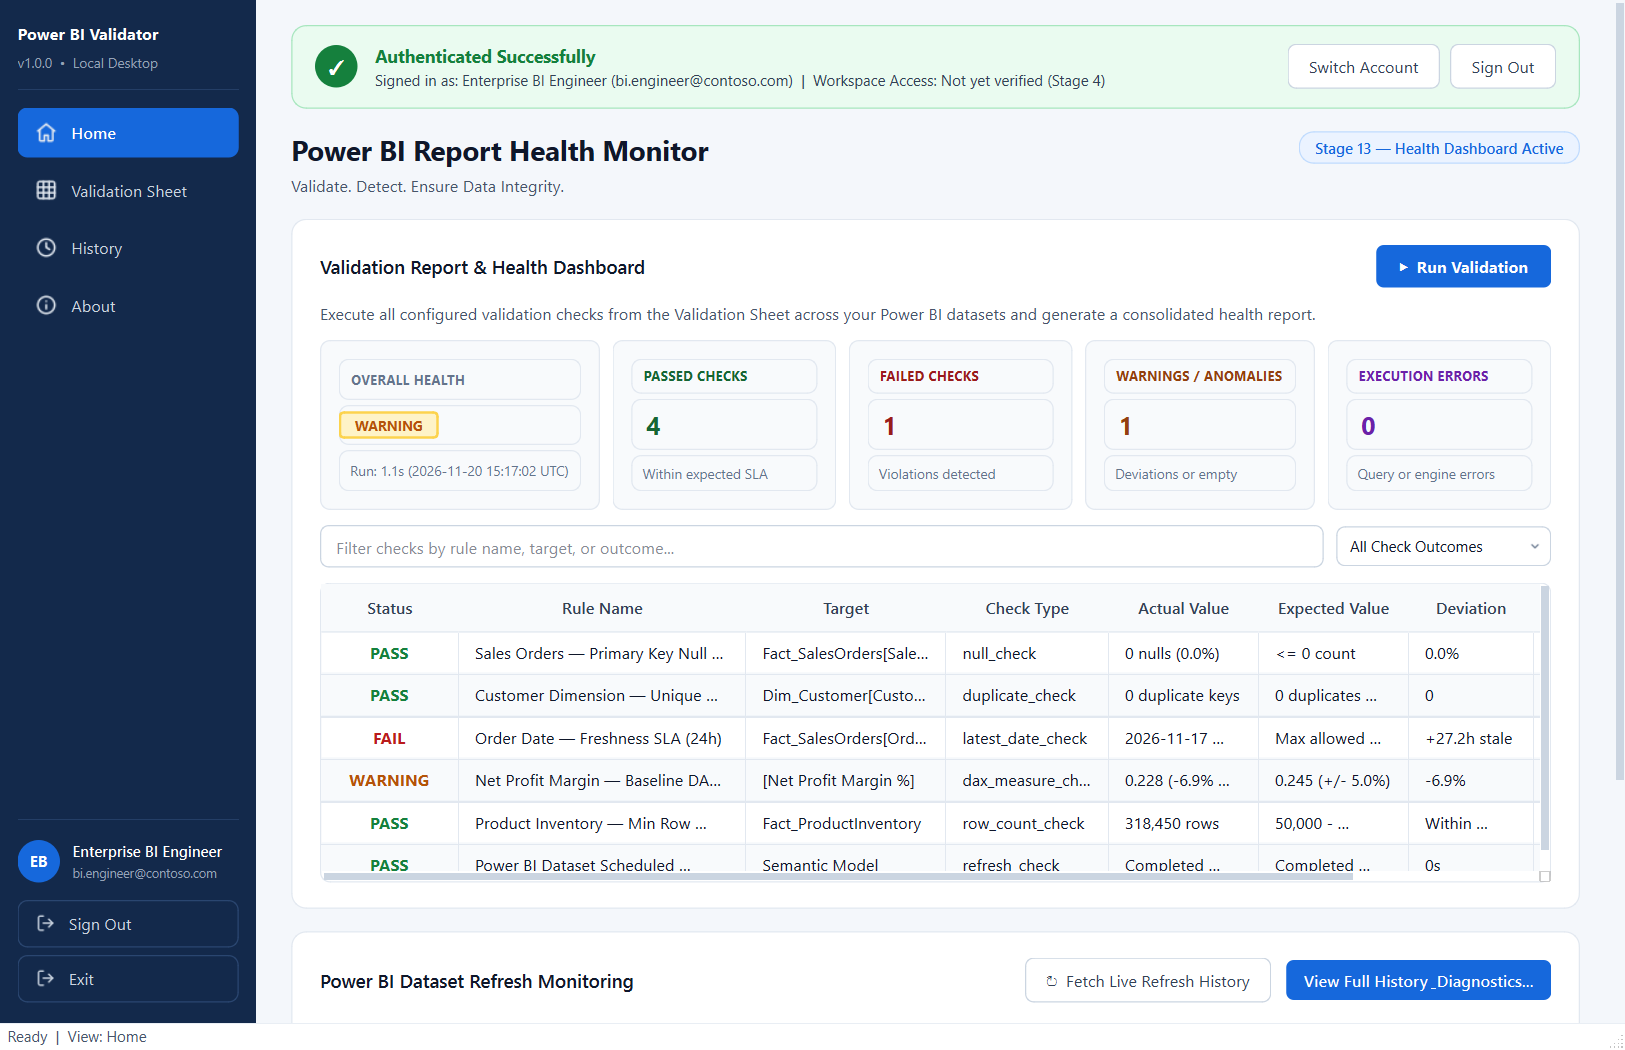
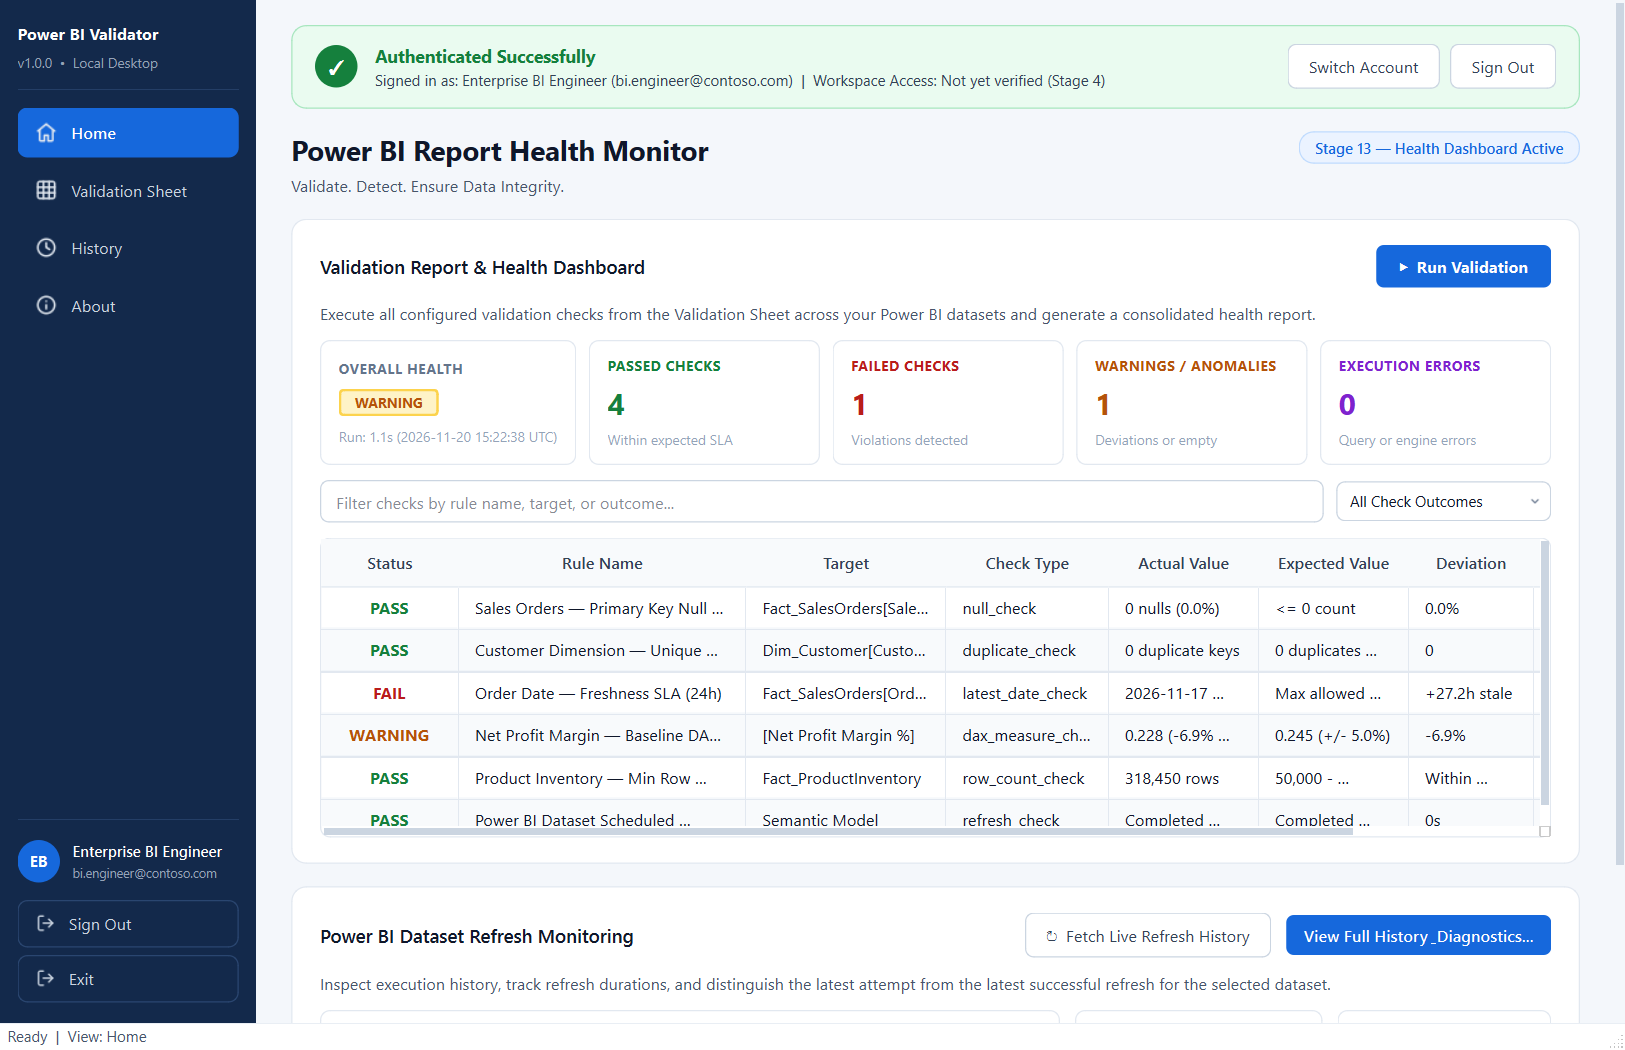
fix(ui): eliminate nested tubelight borders on KPI cards and standardize clean typography

diff --git a/app/ui/pages/home_page.py b/app/ui/pages/home_page.py
@@ -433,13 +433,14 @@ class HomePage(QWidget):
         card_attempt = QFrame()
         card_attempt.setObjectName("Card")
         card_attempt.setStyleSheet(
-            "background-color: #F8FAFC; border: 1px solid #E2E8F0; border-radius: 8px; padding: 8px;"
+            "QFrame#Card { background-color: #FFFFFF; border: 1px solid #E2E8F0; border-radius: 8px; } "
+            "QLabel { border: none; background: transparent; }"
         )
         lay_att = QVBoxLayout(card_attempt)
-        lay_att.setContentsMargins(10, 8, 10, 8)
-        lay_att.setSpacing(4)
+        lay_att.setContentsMargins(14, 12, 14, 12)
+        lay_att.setSpacing(6)
         lbl_att_title = QLabel("LATEST REFRESH ATTEMPT")
-        lbl_att_title.setStyleSheet("color: #64748B; font-size: 10px; font-weight: 700; letter-spacing: 0.5px;")
+        lbl_att_title.setStyleSheet("color: #64748B; font-size: 11px; font-weight: 700; letter-spacing: 0.5px;")
         lay_att.addWidget(lbl_att_title)
 
         self.home_attempt_pill_container = QWidget()
@@ -451,7 +452,7 @@ class HomePage(QWidget):
         lay_att.addWidget(self.home_attempt_pill_container)
 
         self.home_attempt_start = QLabel("Start: —")
-        self.home_attempt_start.setStyleSheet("color: #475569; font-size: 11px;")
+        self.home_attempt_start.setStyleSheet("color: #64748B; font-size: 11px;")
         lay_att.addWidget(self.home_attempt_start)
         self.home_attempt_duration = QLabel("Duration: —")
         self.home_attempt_duration.setStyleSheet("color: #0F172A; font-size: 12px; font-weight: 600;")
@@ -462,20 +463,21 @@ class HomePage(QWidget):
         card_success = QFrame()
         card_success.setObjectName("Card")
         card_success.setStyleSheet(
-            "background-color: #F8FAFC; border: 1px solid #E2E8F0; border-radius: 8px; padding: 8px;"
+            "QFrame#Card { background-color: #FFFFFF; border: 1px solid #E2E8F0; border-radius: 8px; } "
+            "QLabel { border: none; background: transparent; }"
         )
         lay_suc = QVBoxLayout(card_success)
-        lay_suc.setContentsMargins(10, 8, 10, 8)
-        lay_suc.setSpacing(4)
+        lay_suc.setContentsMargins(14, 12, 14, 12)
+        lay_suc.setSpacing(6)
         lbl_suc_title = QLabel("LATEST SUCCESSFUL REFRESH")
-        lbl_suc_title.setStyleSheet("color: #64748B; font-size: 10px; font-weight: 700; letter-spacing: 0.5px;")
+        lbl_suc_title.setStyleSheet("color: #64748B; font-size: 11px; font-weight: 700; letter-spacing: 0.5px;")
         lay_suc.addWidget(lbl_suc_title)
 
         self.home_success_time = QLabel("—")
-        self.home_success_time.setStyleSheet("color: #065F46; font-size: 13px; font-weight: 700;")
+        self.home_success_time.setStyleSheet("color: #059669; font-size: 14px; font-weight: 700;")
         lay_suc.addWidget(self.home_success_time)
         self.home_success_age = QLabel("Age: —")
-        self.home_success_age.setStyleSheet("color: #475569; font-size: 11px;")
+        self.home_success_age.setStyleSheet("color: #64748B; font-size: 11px;")
         lay_suc.addWidget(self.home_success_age)
         self.home_success_duration = QLabel("Duration: —")
         self.home_success_duration.setStyleSheet("color: #0F172A; font-size: 12px; font-weight: 600;")
@@ -486,20 +488,21 @@ class HomePage(QWidget):
         card_rel = QFrame()
         card_rel.setObjectName("Card")
         card_rel.setStyleSheet(
-            "background-color: #F8FAFC; border: 1px solid #E2E8F0; border-radius: 8px; padding: 8px;"
+            "QFrame#Card { background-color: #FFFFFF; border: 1px solid #E2E8F0; border-radius: 8px; } "
+            "QLabel { border: none; background: transparent; }"
         )
         lay_rel = QVBoxLayout(card_rel)
-        lay_rel.setContentsMargins(10, 8, 10, 8)
-        lay_rel.setSpacing(4)
+        lay_rel.setContentsMargins(14, 12, 14, 12)
+        lay_rel.setSpacing(6)
         lbl_rel_title = QLabel("HISTORICAL RELIABILITY")
-        lbl_rel_title.setStyleSheet("color: #64748B; font-size: 10px; font-weight: 700; letter-spacing: 0.5px;")
+        lbl_rel_title.setStyleSheet("color: #64748B; font-size: 11px; font-weight: 700; letter-spacing: 0.5px;")
         lay_rel.addWidget(lbl_rel_title)
 
         self.home_reliability_rate = QLabel("No Data")
-        self.home_reliability_rate.setStyleSheet("color: #1668DC; font-size: 14px; font-weight: 700;")
+        self.home_reliability_rate.setStyleSheet("color: #1668DC; font-size: 15px; font-weight: 700;")
         lay_rel.addWidget(self.home_reliability_rate)
         self.home_reliability_detail = QLabel("Recorded Runs: 0")
-        self.home_reliability_detail.setStyleSheet("color: #475569; font-size: 11px;")
+        self.home_reliability_detail.setStyleSheet("color: #64748B; font-size: 11px;")
         lay_rel.addWidget(self.home_reliability_detail)
         kpi_row.addWidget(card_rel)
 
@@ -780,12 +783,16 @@ class HomePage(QWidget):
 
         # 1. Overall Status
         card_ov = QFrame()
-        card_ov.setStyleSheet("background-color: #F8FAFC; border: 1px solid #E2E8F0; border-radius: 8px; padding: 6px;")
+        card_ov.setObjectName("Card")
+        card_ov.setStyleSheet(
+            "QFrame#Card { background-color: #FFFFFF; border: 1px solid #E2E8F0; border-radius: 8px; } "
+            "QLabel { border: none; background: transparent; }"
+        )
         lay_ov = QVBoxLayout(card_ov)
-        lay_ov.setContentsMargins(8, 8, 8, 8)
-        lay_ov.setSpacing(4)
+        lay_ov.setContentsMargins(14, 12, 14, 12)
+        lay_ov.setSpacing(6)
         lbl_ov_t = QLabel("OVERALL HEALTH")
-        lbl_ov_t.setStyleSheet("color: #64748B; font-size: 10px; font-weight: 700; letter-spacing: 0.5px;")
+        lbl_ov_t.setStyleSheet("color: #64748B; font-size: 11px; font-weight: 700; letter-spacing: 0.5px;")
         lay_ov.addWidget(lbl_ov_t)
 
         self.home_overall_pill_container = QWidget()
@@ -797,75 +804,91 @@ class HomePage(QWidget):
         lay_ov.addWidget(self.home_overall_pill_container)
 
         self.home_overall_timing = QLabel("Last Run: —")
-        self.home_overall_timing.setStyleSheet("color: #64748B; font-size: 11px;")
+        self.home_overall_timing.setStyleSheet("color: #94A3B8; font-size: 11px;")
         lay_ov.addWidget(self.home_overall_timing)
         kpi_row.addWidget(card_ov, stretch=1)
 
         # 2. Passed
         card_pass = QFrame()
-        card_pass.setStyleSheet("background-color: #F8FAFC; border: 1px solid #E2E8F0; border-radius: 8px; padding: 6px;")
+        card_pass.setObjectName("Card")
+        card_pass.setStyleSheet(
+            "QFrame#Card { background-color: #FFFFFF; border: 1px solid #E2E8F0; border-radius: 8px; } "
+            "QLabel { border: none; background: transparent; }"
+        )
         lay_p = QVBoxLayout(card_pass)
-        lay_p.setContentsMargins(8, 8, 8, 8)
-        lay_p.setSpacing(4)
+        lay_p.setContentsMargins(14, 12, 14, 12)
+        lay_p.setSpacing(6)
         lbl_p_t = QLabel("PASSED CHECKS")
-        lbl_p_t.setStyleSheet("color: #166534; font-size: 10px; font-weight: 700; letter-spacing: 0.5px;")
+        lbl_p_t.setStyleSheet("color: #15803D; font-size: 11px; font-weight: 700; letter-spacing: 0.5px;")
         lay_p.addWidget(lbl_p_t)
         self.home_passed_count = QLabel("0")
-        self.home_passed_count.setStyleSheet("color: #166534; font-size: 20px; font-weight: 700;")
+        self.home_passed_count.setStyleSheet("color: #15803D; font-size: 24px; font-weight: 700;")
         lay_p.addWidget(self.home_passed_count)
         lbl_p_sub = QLabel("Within expected SLA")
-        lbl_p_sub.setStyleSheet("color: #64748B; font-size: 11px;")
+        lbl_p_sub.setStyleSheet("color: #94A3B8; font-size: 11px;")
         lay_p.addWidget(lbl_p_sub)
         kpi_row.addWidget(card_pass, stretch=1)
 
         # 3. Failed
         card_fail = QFrame()
-        card_fail.setStyleSheet("background-color: #F8FAFC; border: 1px solid #E2E8F0; border-radius: 8px; padding: 6px;")
+        card_fail.setObjectName("Card")
+        card_fail.setStyleSheet(
+            "QFrame#Card { background-color: #FFFFFF; border: 1px solid #E2E8F0; border-radius: 8px; } "
+            "QLabel { border: none; background: transparent; }"
+        )
         lay_f = QVBoxLayout(card_fail)
-        lay_f.setContentsMargins(8, 8, 8, 8)
-        lay_f.setSpacing(4)
+        lay_f.setContentsMargins(14, 12, 14, 12)
+        lay_f.setSpacing(6)
         lbl_f_t = QLabel("FAILED CHECKS")
-        lbl_f_t.setStyleSheet("color: #991B1B; font-size: 10px; font-weight: 700; letter-spacing: 0.5px;")
+        lbl_f_t.setStyleSheet("color: #B91C1C; font-size: 11px; font-weight: 700; letter-spacing: 0.5px;")
         lay_f.addWidget(lbl_f_t)
         self.home_failed_count = QLabel("0")
-        self.home_failed_count.setStyleSheet("color: #991B1B; font-size: 20px; font-weight: 700;")
+        self.home_failed_count.setStyleSheet("color: #B91C1C; font-size: 24px; font-weight: 700;")
         lay_f.addWidget(self.home_failed_count)
         lbl_f_sub = QLabel("Violations detected")
-        lbl_f_sub.setStyleSheet("color: #64748B; font-size: 11px;")
+        lbl_f_sub.setStyleSheet("color: #94A3B8; font-size: 11px;")
         lay_f.addWidget(lbl_f_sub)
         kpi_row.addWidget(card_fail, stretch=1)
 
         # 4. Warnings
         card_warn = QFrame()
-        card_warn.setStyleSheet("background-color: #F8FAFC; border: 1px solid #E2E8F0; border-radius: 8px; padding: 6px;")
+        card_warn.setObjectName("Card")
+        card_warn.setStyleSheet(
+            "QFrame#Card { background-color: #FFFFFF; border: 1px solid #E2E8F0; border-radius: 8px; } "
+            "QLabel { border: none; background: transparent; }"
+        )
         lay_w = QVBoxLayout(card_warn)
-        lay_w.setContentsMargins(8, 8, 8, 8)
-        lay_w.setSpacing(4)
+        lay_w.setContentsMargins(14, 12, 14, 12)
+        lay_w.setSpacing(6)
         lbl_w_t = QLabel("WARNINGS / ANOMALIES")
-        lbl_w_t.setStyleSheet("color: #92400E; font-size: 10px; font-weight: 700; letter-spacing: 0.5px;")
+        lbl_w_t.setStyleSheet("color: #B45309; font-size: 11px; font-weight: 700; letter-spacing: 0.5px;")
         lay_w.addWidget(lbl_w_t)
         self.home_warning_count = QLabel("0")
-        self.home_warning_count.setStyleSheet("color: #92400E; font-size: 20px; font-weight: 700;")
+        self.home_warning_count.setStyleSheet("color: #B45309; font-size: 24px; font-weight: 700;")
         lay_w.addWidget(self.home_warning_count)
         lbl_w_sub = QLabel("Deviations or empty")
-        lbl_w_sub.setStyleSheet("color: #64748B; font-size: 11px;")
+        lbl_w_sub.setStyleSheet("color: #94A3B8; font-size: 11px;")
         lay_w.addWidget(lbl_w_sub)
         kpi_row.addWidget(card_warn, stretch=1)
 
         # 5. Errors
         card_err = QFrame()
-        card_err.setStyleSheet("background-color: #F8FAFC; border: 1px solid #E2E8F0; border-radius: 8px; padding: 6px;")
+        card_err.setObjectName("Card")
+        card_err.setStyleSheet(
+            "QFrame#Card { background-color: #FFFFFF; border: 1px solid #E2E8F0; border-radius: 8px; } "
+            "QLabel { border: none; background: transparent; }"
+        )
         lay_e = QVBoxLayout(card_err)
-        lay_e.setContentsMargins(8, 8, 8, 8)
-        lay_e.setSpacing(4)
+        lay_e.setContentsMargins(14, 12, 14, 12)
+        lay_e.setSpacing(6)
         lbl_e_t = QLabel("EXECUTION ERRORS")
-        lbl_e_t.setStyleSheet("color: #6B21A8; font-size: 10px; font-weight: 700; letter-spacing: 0.5px;")
+        lbl_e_t.setStyleSheet("color: #7E22CE; font-size: 11px; font-weight: 700; letter-spacing: 0.5px;")
         lay_e.addWidget(lbl_e_t)
         self.home_error_count = QLabel("0")
-        self.home_error_count.setStyleSheet("color: #6B21A8; font-size: 20px; font-weight: 700;")
+        self.home_error_count.setStyleSheet("color: #7E22CE; font-size: 24px; font-weight: 700;")
         lay_e.addWidget(self.home_error_count)
         lbl_e_sub = QLabel("Query or engine errors")
-        lbl_e_sub.setStyleSheet("color: #64748B; font-size: 11px;")
+        lbl_e_sub.setStyleSheet("color: #94A3B8; font-size: 11px;")
         lay_e.addWidget(lbl_e_sub)
         kpi_row.addWidget(card_err, stretch=1)
 

diff --git a/app/ui/dialogs/run_comparison_dialog.py b/app/ui/dialogs/run_comparison_dialog.py
@@ -231,76 +231,96 @@ class RunComparisonDialog(QDialog):
 
         # Regressions Card
         self.c_reg = QFrame()
+        self.c_reg.setObjectName("CardReg")
         self.c_reg.setCursor(Qt.CursorShape.PointingHandCursor)
-        self.c_reg.setStyleSheet("background-color: #FEF2F2; border: 1.5px solid #FCA5A5; border-radius: 8px; padding: 6px;")
+        self.c_reg.setStyleSheet(
+            "QFrame#CardReg { background-color: #FEF2F2; border: 1px solid #FECACA; border-radius: 8px; } "
+            "QFrame#CardReg:hover { background-color: #FEE2E2; border-color: #F87171; } "
+            "QLabel { border: none; background: transparent; }"
+        )
         lay_reg = QVBoxLayout(self.c_reg)
-        lay_reg.setContentsMargins(10, 8, 10, 8)
-        lay_reg.setSpacing(2)
+        lay_reg.setContentsMargins(14, 12, 14, 12)
+        lay_reg.setSpacing(4)
         lbl_r_t = QLabel("REGRESSIONS")
-        lbl_r_t.setStyleSheet("font-size: 11px; font-weight: 700; color: #B91C1C;")
+        lbl_r_t.setStyleSheet("font-size: 11px; font-weight: 700; color: #B91C1C; letter-spacing: 0.5px;")
         lay_reg.addWidget(lbl_r_t)
         self.lbl_r_c = QLabel(str(self._cmp.regressions_count))
-        self.lbl_r_c.setStyleSheet("font-size: 20px; font-weight: 700; color: #B91C1C;")
+        self.lbl_r_c.setStyleSheet("font-size: 24px; font-weight: 700; color: #B91C1C;")
         lay_reg.addWidget(self.lbl_r_c)
         lbl_r_sub = QLabel("Worsened checks (Click to filter)")
-        lbl_r_sub.setStyleSheet("font-size: 10px; color: #991B1B;")
+        lbl_r_sub.setStyleSheet("font-size: 11px; color: #991B1B;")
         lay_reg.addWidget(lbl_r_sub)
         self.c_reg.mousePressEvent = lambda _e: self._filter_by_card("REGRESSION")
         kpi_row.addWidget(self.c_reg, stretch=1)
 
         # Improvements Card
         self.c_imp = QFrame()
+        self.c_imp.setObjectName("CardImp")
         self.c_imp.setCursor(Qt.CursorShape.PointingHandCursor)
-        self.c_imp.setStyleSheet("background-color: #F0FDF4; border: 1.5px solid #86EFAC; border-radius: 8px; padding: 6px;")
+        self.c_imp.setStyleSheet(
+            "QFrame#CardImp { background-color: #F0FDF4; border: 1px solid #BBF7D0; border-radius: 8px; } "
+            "QFrame#CardImp:hover { background-color: #DCFCE7; border-color: #4ADE80; } "
+            "QLabel { border: none; background: transparent; }"
+        )
         lay_imp = QVBoxLayout(self.c_imp)
-        lay_imp.setContentsMargins(10, 8, 10, 8)
-        lay_imp.setSpacing(2)
+        lay_imp.setContentsMargins(14, 12, 14, 12)
+        lay_imp.setSpacing(4)
         lbl_i_t = QLabel("IMPROVEMENTS")
-        lbl_i_t.setStyleSheet("font-size: 11px; font-weight: 700; color: #15803D;")
+        lbl_i_t.setStyleSheet("font-size: 11px; font-weight: 700; color: #15803D; letter-spacing: 0.5px;")
         lay_imp.addWidget(lbl_i_t)
         self.lbl_i_c = QLabel(str(self._cmp.improvements_count))
-        self.lbl_i_c.setStyleSheet("font-size: 20px; font-weight: 700; color: #15803D;")
+        self.lbl_i_c.setStyleSheet("font-size: 24px; font-weight: 700; color: #15803D;")
         lay_imp.addWidget(self.lbl_i_c)
         lbl_i_sub = QLabel("Resolved checks (Click to filter)")
-        lbl_i_sub.setStyleSheet("font-size: 10px; color: #166534;")
+        lbl_i_sub.setStyleSheet("font-size: 11px; color: #166534;")
         lay_imp.addWidget(lbl_i_sub)
         self.c_imp.mousePressEvent = lambda _e: self._filter_by_card("IMPROVEMENT")
         kpi_row.addWidget(self.c_imp, stretch=1)
 
         # Unchanged Card
         self.c_unc = QFrame()
+        self.c_unc.setObjectName("CardUnc")
         self.c_unc.setCursor(Qt.CursorShape.PointingHandCursor)
-        self.c_unc.setStyleSheet("background-color: #F8FAFC; border: 1px solid #CBD5E1; border-radius: 8px; padding: 6px;")
+        self.c_unc.setStyleSheet(
+            "QFrame#CardUnc { background-color: #FFFFFF; border: 1px solid #E2E8F0; border-radius: 8px; } "
+            "QFrame#CardUnc:hover { background-color: #F8FAFC; border-color: #CBD5E1; } "
+            "QLabel { border: none; background: transparent; }"
+        )
         lay_unc = QVBoxLayout(self.c_unc)
-        lay_unc.setContentsMargins(10, 8, 10, 8)
-        lay_unc.setSpacing(2)
+        lay_unc.setContentsMargins(14, 12, 14, 12)
+        lay_unc.setSpacing(4)
         lbl_u_t = QLabel("UNCHANGED")
-        lbl_u_t.setStyleSheet("font-size: 11px; font-weight: 700; color: #475569;")
+        lbl_u_t.setStyleSheet("font-size: 11px; font-weight: 700; color: #475569; letter-spacing: 0.5px;")
         lay_unc.addWidget(lbl_u_t)
         self.lbl_u_c = QLabel(str(self._cmp.unchanged_count))
-        self.lbl_u_c.setStyleSheet("font-size: 20px; font-weight: 700; color: #475569;")
+        self.lbl_u_c.setStyleSheet("font-size: 24px; font-weight: 700; color: #334155;")
         lay_unc.addWidget(self.lbl_u_c)
         lbl_u_sub = QLabel("Identical status (Click to filter)")
-        lbl_u_sub.setStyleSheet("font-size: 10px; color: #64748B;")
+        lbl_u_sub.setStyleSheet("font-size: 11px; color: #94A3B8;")
         lay_unc.addWidget(lbl_u_sub)
         self.c_unc.mousePressEvent = lambda _e: self._filter_by_card("UNCHANGED")
         kpi_row.addWidget(self.c_unc, stretch=1)
 
         # New / Removed Card
         self.c_mod = QFrame()
+        self.c_mod.setObjectName("CardMod")
         self.c_mod.setCursor(Qt.CursorShape.PointingHandCursor)
-        self.c_mod.setStyleSheet("background-color: #EFF6FF; border: 1px solid #93C5FD; border-radius: 8px; padding: 6px;")
+        self.c_mod.setStyleSheet(
+            "QFrame#CardMod { background-color: #EFF6FF; border: 1px solid #BFDBFE; border-radius: 8px; } "
+            "QFrame#CardMod:hover { background-color: #DBEAFE; border-color: #60A5FA; } "
+            "QLabel { border: none; background: transparent; }"
+        )
         lay_mod = QVBoxLayout(self.c_mod)
-        lay_mod.setContentsMargins(10, 8, 10, 8)
-        lay_mod.setSpacing(2)
+        lay_mod.setContentsMargins(14, 12, 14, 12)
+        lay_mod.setSpacing(4)
         lbl_m_t = QLabel("NEW / REMOVED RULES")
-        lbl_m_t.setStyleSheet("font-size: 11px; font-weight: 700; color: #1D4ED8;")
+        lbl_m_t.setStyleSheet("font-size: 11px; font-weight: 700; color: #1D4ED8; letter-spacing: 0.5px;")
         lay_mod.addWidget(lbl_m_t)
         self.lbl_m_c = QLabel(f"+{self._cmp.new_rules_count} / -{self._cmp.removed_rules_count}")
-        self.lbl_m_c.setStyleSheet("font-size: 20px; font-weight: 700; color: #1D4ED8;")
+        self.lbl_m_c.setStyleSheet("font-size: 24px; font-weight: 700; color: #1D4ED8;")
         lay_mod.addWidget(self.lbl_m_c)
         lbl_m_sub = QLabel("Added or removed (Click to filter)")
-        lbl_m_sub.setStyleSheet("font-size: 10px; color: #1E40AF;")
+        lbl_m_sub.setStyleSheet("font-size: 11px; color: #1E40AF;")
         lay_mod.addWidget(lbl_m_sub)
         self.c_mod.mousePressEvent = lambda _e: self._filter_by_card("MODIFIED")
         kpi_row.addWidget(self.c_mod, stretch=1)

diff --git a/app/ui/dialogs/refresh_details_dialog.py b/app/ui/dialogs/refresh_details_dialog.py
@@ -351,14 +351,15 @@ class RefreshDetailsDialog(QDialog):
         card = QFrame()
         card.setObjectName("Card")
         card.setStyleSheet(
-            "background-color: #FFFFFF; border: 1px solid #E2E8F0; border-radius: 8px; padding: 10px;"
+            "QFrame#Card { background-color: #FFFFFF; border: 1px solid #E2E8F0; border-radius: 8px; } "
+            "QLabel { border: none; background: transparent; }"
         )
         layout = QVBoxLayout(card)
-        layout.setContentsMargins(12, 10, 12, 10)
-        layout.setSpacing(4)
+        layout.setContentsMargins(14, 12, 14, 12)
+        layout.setSpacing(6)
 
         header = QLabel(title)
-        header.setStyleSheet("color: #64748B; font-size: 10px; font-weight: 700; letter-spacing: 0.5px;")
+        header.setStyleSheet("color: #64748B; font-size: 11px; font-weight: 700; letter-spacing: 0.5px;")
         layout.addWidget(header)
         return card
 

diff --git a/app/ui/theme.py b/app/ui/theme.py
@@ -108,6 +108,11 @@ QFrame#Card {
     border-radius: 12px;
 }
 
+QFrame#Card QLabel {
+    border: none;
+    background-color: transparent;
+}
+
 QLabel#PageTitle {
     color: #0F172A;
     font-size: 22px;
